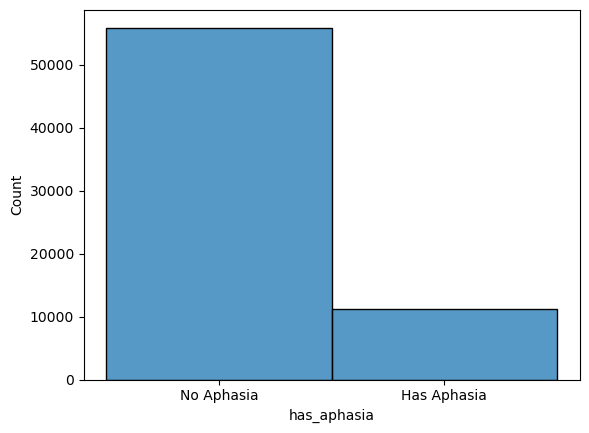
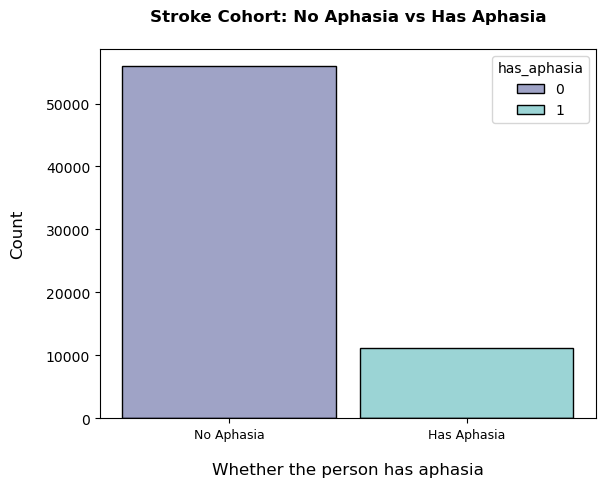
aphasia plot update

diff --git a/src/plot_has_aphasia.py b/src/plot_has_aphasia.py
@@ -22,8 +22,11 @@ df["has_aphasia"] = df["has_aphasia"].apply(str)
 
 # Plot.
 fig, ax = plt.subplots()
-sns.histplot(data=df, x="has_aphasia")
-ax.set_xticklabels(["No Aphasia", "Has Aphasia"])
+sns.histplot(data=df, x="has_aphasia", hue="has_aphasia", palette='mako', shrink=.9)
+ax.set_xticklabels(["No Aphasia", "Has Aphasia"], fontsize=9)
+ax.set_title("Stroke Cohort: No Aphasia vs Has Aphasia", weight="bold", pad=20)
+plt.xlabel("Whether the person has aphasia", fontsize=12, labelpad=15)
+plt.ylabel("Count", fontsize=12, labelpad=15)
 plt.savefig("figs/aphasia_dist.png", bbox_inches="tight")
 plt.tight_layout()
 plt.show()
